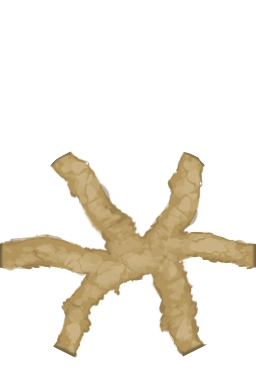
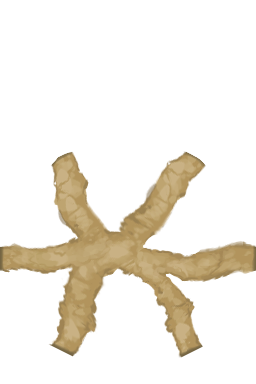
[feat] roads rendering

Changed region(s): [[0.0, 0.4062, 1.0, 0.9375]]

diff --git a/src/app/ui/editor/tile-painting/tile-painting.component.ts b/src/app/ui/editor/tile-painting/tile-painting.component.ts
@@ -34,7 +34,6 @@ interface PaintData {
   landForm: LandForm | undefined;
   seaLevel: SeaLevel | undefined;
   improvement: TileImprovement | undefined;
-  road: TileRoad | undefined;
 }
 
 @Component({
@@ -59,7 +58,6 @@ export class TilePaintingComponent implements OnInit {
   FOREST_OPTIONS: Option[] = [IGNORE_OPTION, ...FOREST_OPTIONS];
   WETLANDS_OPTIONS: Option[] = [IGNORE_OPTION, ...WETLANDS_OPTIONS];
   IMPROVEMENT_OPTIONS: Option[] = [IGNORE_OPTION, ...IMPROVEMENT_OPTIONS];
-  ROAD_OPTIONS: Option[] = [IGNORE_OPTION, ...ROAD_OPTIONS];
 
   DEFAULT_PAINT_DATA: PaintData = {
     size: 1,
@@ -69,7 +67,6 @@ export class TilePaintingComponent implements OnInit {
     seaLevel: undefined,
     wetlands: undefined,
     improvement: undefined,
-    road: undefined,
   };
 
   @Input() isVisible$: Observable<boolean>;
@@ -139,12 +136,6 @@ export class TilePaintingComponent implements OnInit {
       if (this.paintData.improvement !== undefined) {
         if (tile.isImprovementPossible(this.paintData.improvement)) {
           tile.improvement = this.paintData.improvement;
-        }
-      }
-
-      if (this.paintData.road !== undefined) {
-        if (tile.isRoadPossible()) {
-          tile.road = this.paintData.road;
         }
       }
 

diff --git a/src/app/renderer/tile/terrain.ts b/src/app/renderer/tile/terrain.ts
@@ -130,6 +130,12 @@ export class TerrainDrawer {
       this.waterContainer.addChild(sprite, tile);
     }
 
+    this.drawRoads(tile);
+
+    this.drawImprovement(tile);
+  }
+
+  private drawImprovement(tile: Tile) {
     if (tile.improvement === TileImprovement.farm) {
       const textureName = pickRandom(FARM_TEXTURES);
       const sprite = drawTileSpriteCentered(tile, this.textures[textureName]);
@@ -143,6 +149,21 @@ export class TerrainDrawer {
       const sprite = drawTileSpriteCentered(tile, this.textures[textureName]);
       this.terrainContainer.addChild(sprite, tile);
     }
+  }
+
+  private drawRoads(tile: Tile) {
+    if (tile.road === null) {
+      return;
+    }
+
+    // FIXME This will fail to render roads on map edges because of insufficient number of neighbours.
+    const roadId = tile.neighbours
+      .map((n) => (n.road === null ? "0" : "1"))
+      .join("");
+
+    const textureName = `hexRoad-${roadId}-00.png`;
+    const sprite = drawTileSprite(tile, this.textures[textureName]);
+    this.terrainContainer.addChild(sprite, tile);
   }
 
   private updateTile(tile: Tile) {

diff --git a/src/app/core/cities-manager.ts b/src/app/core/cities-manager.ts
@@ -4,7 +4,7 @@ import { City, CitySerialized } from "./city";
 import { getTileFromIndex } from "./serialization";
 import { Game } from "./game";
 import { Player } from "./player";
-import { Tile, LandForm, SeaLevel } from "./tile";
+import { Tile, LandForm, SeaLevel, TileRoad } from "./tile";
 import { BUILDINGS_MAP } from "./buildings";
 import { ProductDefinition } from "./product";
 import { IDLE_PRODUCTS_MAP } from "./idle-product";
@@ -51,6 +51,7 @@ export class CitiesManager {
     tile.city = city;
     tile.forest = false;
     tile.wetlands = false;
+    tile.road = TileRoad.road;
     this.game.tilesManager.updateTile(tile);
 
     if (isNew) {

diff --git a/src/app/ui/editor/tile-editor/tile-editor.component.ts b/src/app/ui/editor/tile-editor/tile-editor.component.ts
@@ -88,9 +88,12 @@ export class TileEditorComponent implements OnInit {
   }
 
   updateRoad(road: TileRoad) {
-    if (this.tile) {
-      this.tile.road = road && this.tile.isRoadPossible();
+    if (this.tile && this.tile.isRoadPossible()) {
+      this.tile.road = road;
       this.update();
+      for (const neighbour of this.tile.neighbours) {
+        this.game.tilesManager.updateTile(neighbour);
+      }
     }
   }
 

diff --git a/src/app/ui/editor/tile-painting/tile-painting.component.html b/src/app/ui/editor/tile-painting/tile-painting.component.html
@@ -61,13 +61,4 @@
   ></app-radio>
 </div>
 
-<div>
-  <h4>Road</h4>
-  <app-radio
-    [options]="ROAD_OPTIONS"
-    [value]="paintData.road"
-    (changed)="paintData.road = $event"
-  ></app-radio>
-</div>
-
 <button (click)="reset()">Reset</button>
